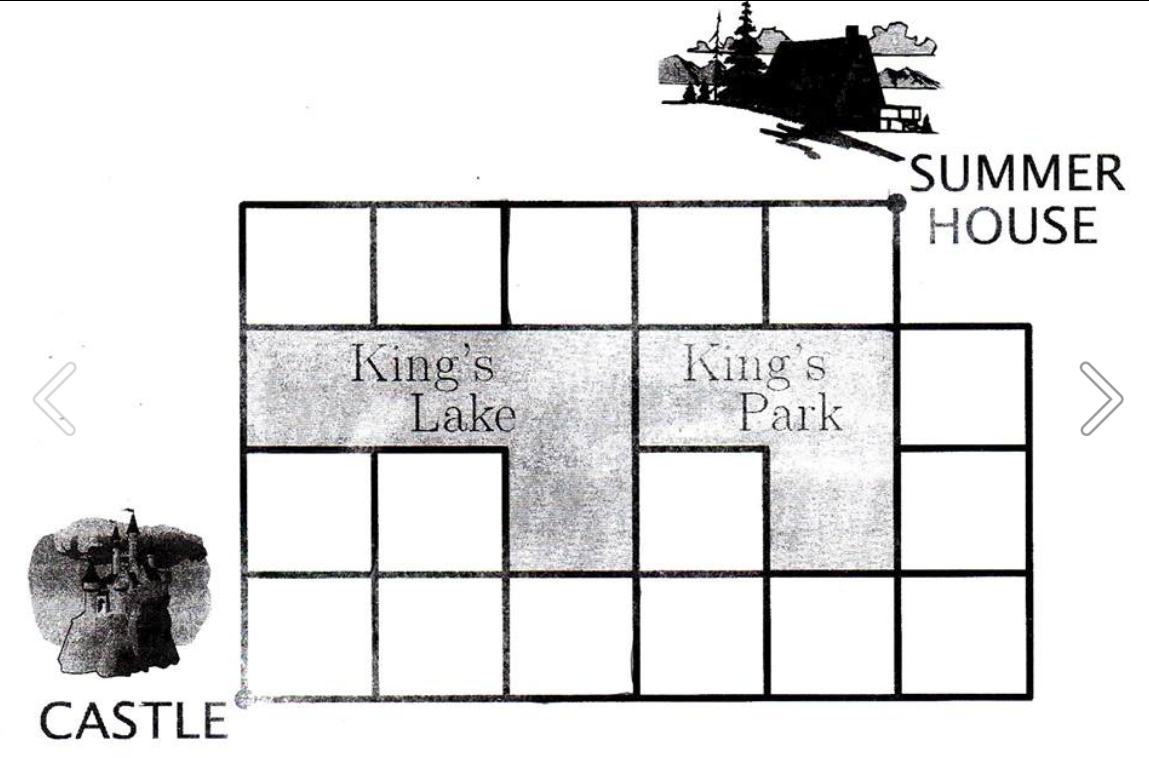
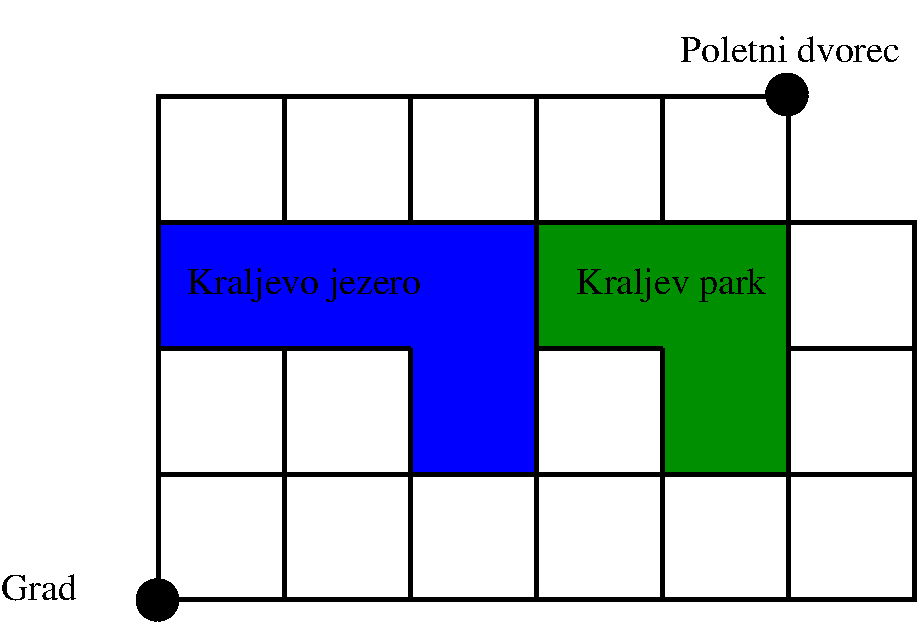
Change riddle image, mention DKS

diff --git a/templates/index.html b/templates/index.html
@@ -43,7 +43,8 @@
 
             <h3>O projektu</h3>
             <p>
-                Spletni portal Kriptogram je nastal v sklopu
+                Spletni portal Kriptogram so študenti FRI skupaj s člani
+                Društva kriptologov Slovenije (DKS) razvili v sklopu
                 Študentskih inovativnih projektov za družbeno korist (2017).
             </p>
         </div>
@@ -52,11 +53,11 @@
             <button id="riddle-btn">Uganka tedna</button>
             <div id="riddle-txt">
                 <div id="riddle-content">
-                    <p>Kralj gre rad na dopust v svojo poletno hišo s kočijo.
+                    <p>Kralj gre rad na dopust v svoj poletni dvorec s kočijo.
                     Naroči kočijažu, naj nikoli ne gre naravnost, ko pride na križišče,
                     in naj na poti nikoli ne potuje po istem delu ceste dvakrat.
-                    Kočijaž mora obrniti desno ali levo, ko pride do katerega koli križišča.
-                    Na zemljevidu so prikazane vse ceste, ki vodijo od palače do poletne hiše.
+                    Kočijaž mora obrniti desno ali levo, ko pride do kateregakoli križišča.
+                    Na zemljevidu so prikazane vse ceste, ki vodijo od palače do poletnega dvorca.
                     Debele črne črte označujejo ceste.
                     Vse ceste, ki povezujejo dve sosednji križišči, so dolge 1 km.
                     </p>
